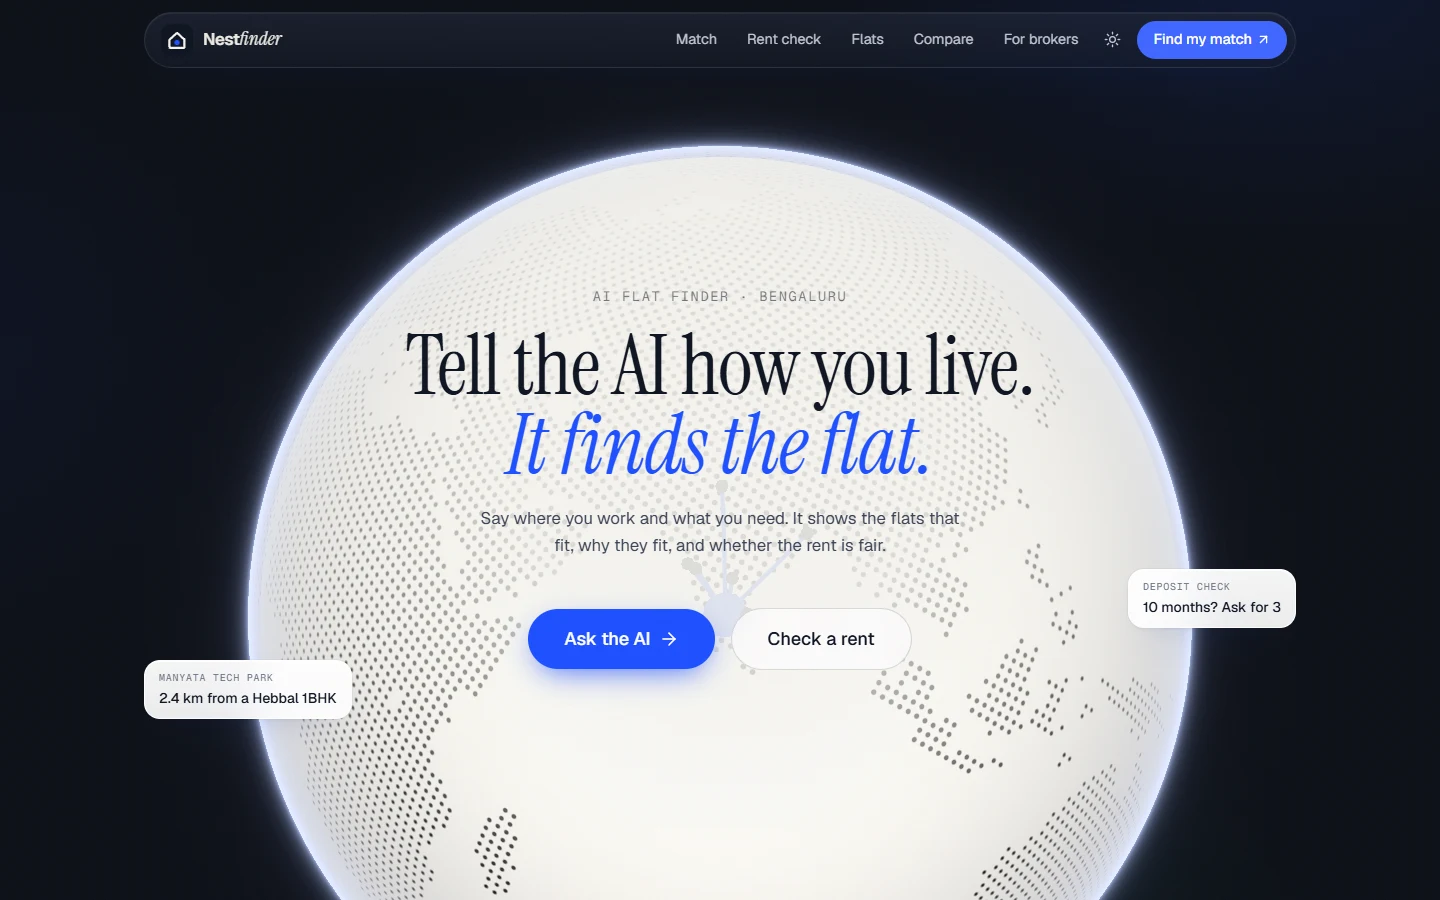
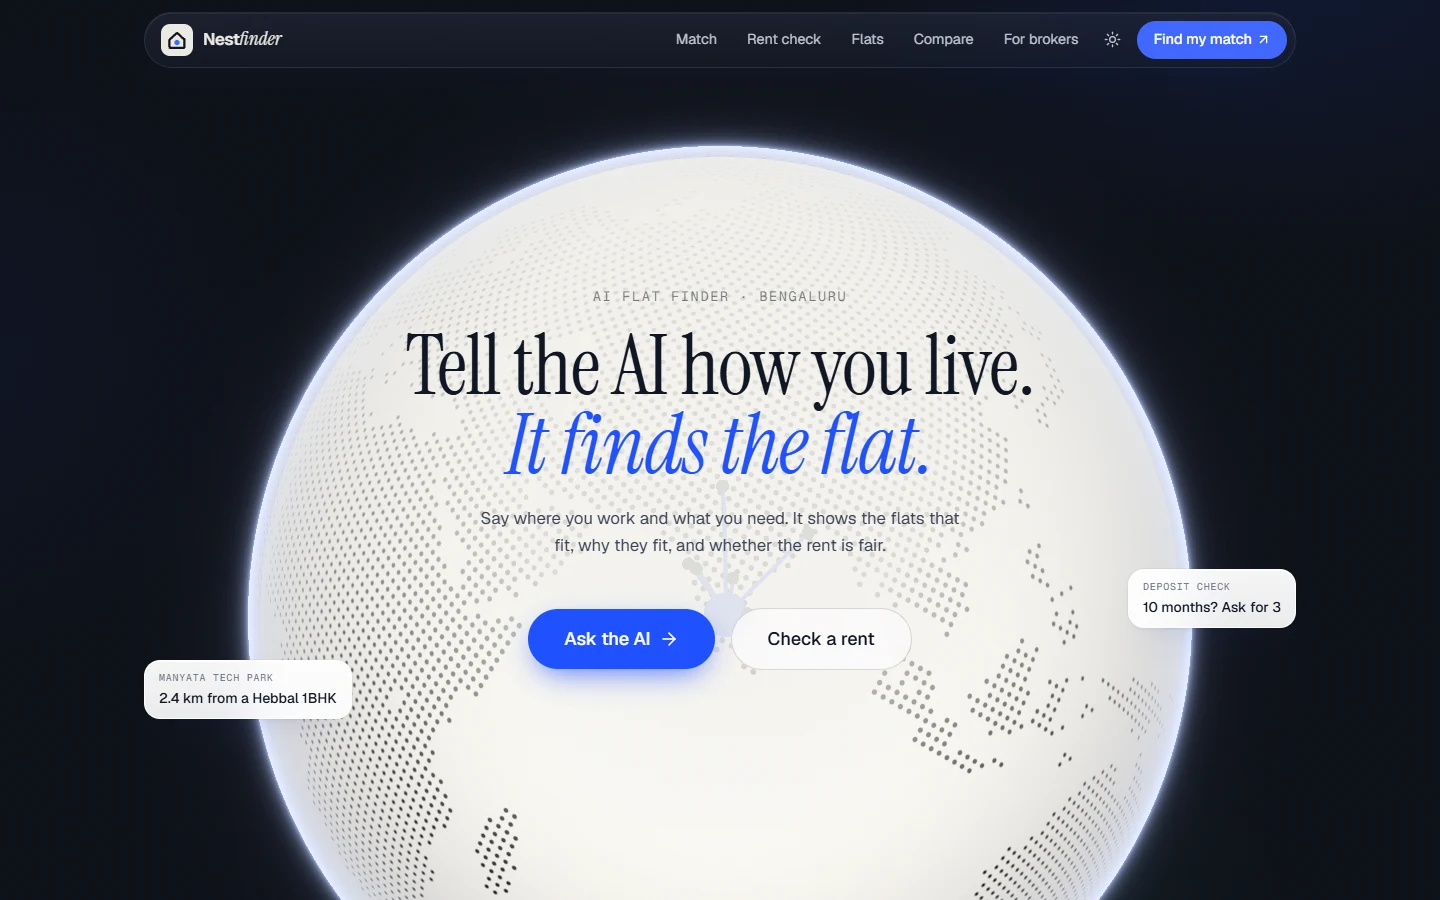
README: real clone URL, Node 24 requirement, refreshed screenshots

diff --git a/README.md b/README.md
@@ -430,7 +430,7 @@ Everything here uses free accounts. Nothing asks for a credit card.
 
 ### What you need
 
-- **Node.js 24** ([download](https://nodejs.org)). The server uses `node --env-file`, so Node 20.6 or newer is required; 24 is what it was built on.
+- **Node.js 24 or newer** ([download](https://nodejs.org)). `server/package.json` asks for it, and the server reads its settings with `node --env-file`.
 - A free **MongoDB Atlas** cluster ([mongodb.com/atlas](https://www.mongodb.com/atlas)), or MongoDB on your machine.
 - A free **Groq** API key ([console.groq.com](https://console.groq.com)) for the AI features. Without it, everything except the AI works.
 - Optional: free **Langfuse** keys ([cloud.langfuse.com](https://cloud.langfuse.com)) for tracing.
@@ -439,8 +439,8 @@ Everything here uses free accounts. Nothing asks for a credit card.
 
 ```bash
 # 1. Get the code
-git clone <this repo>
-cd NestFinder
+git clone https://github.com/rudraksh01-tech/nestfinder.git
+cd nestfinder
 
 # 2. Install
 cd server && npm install
